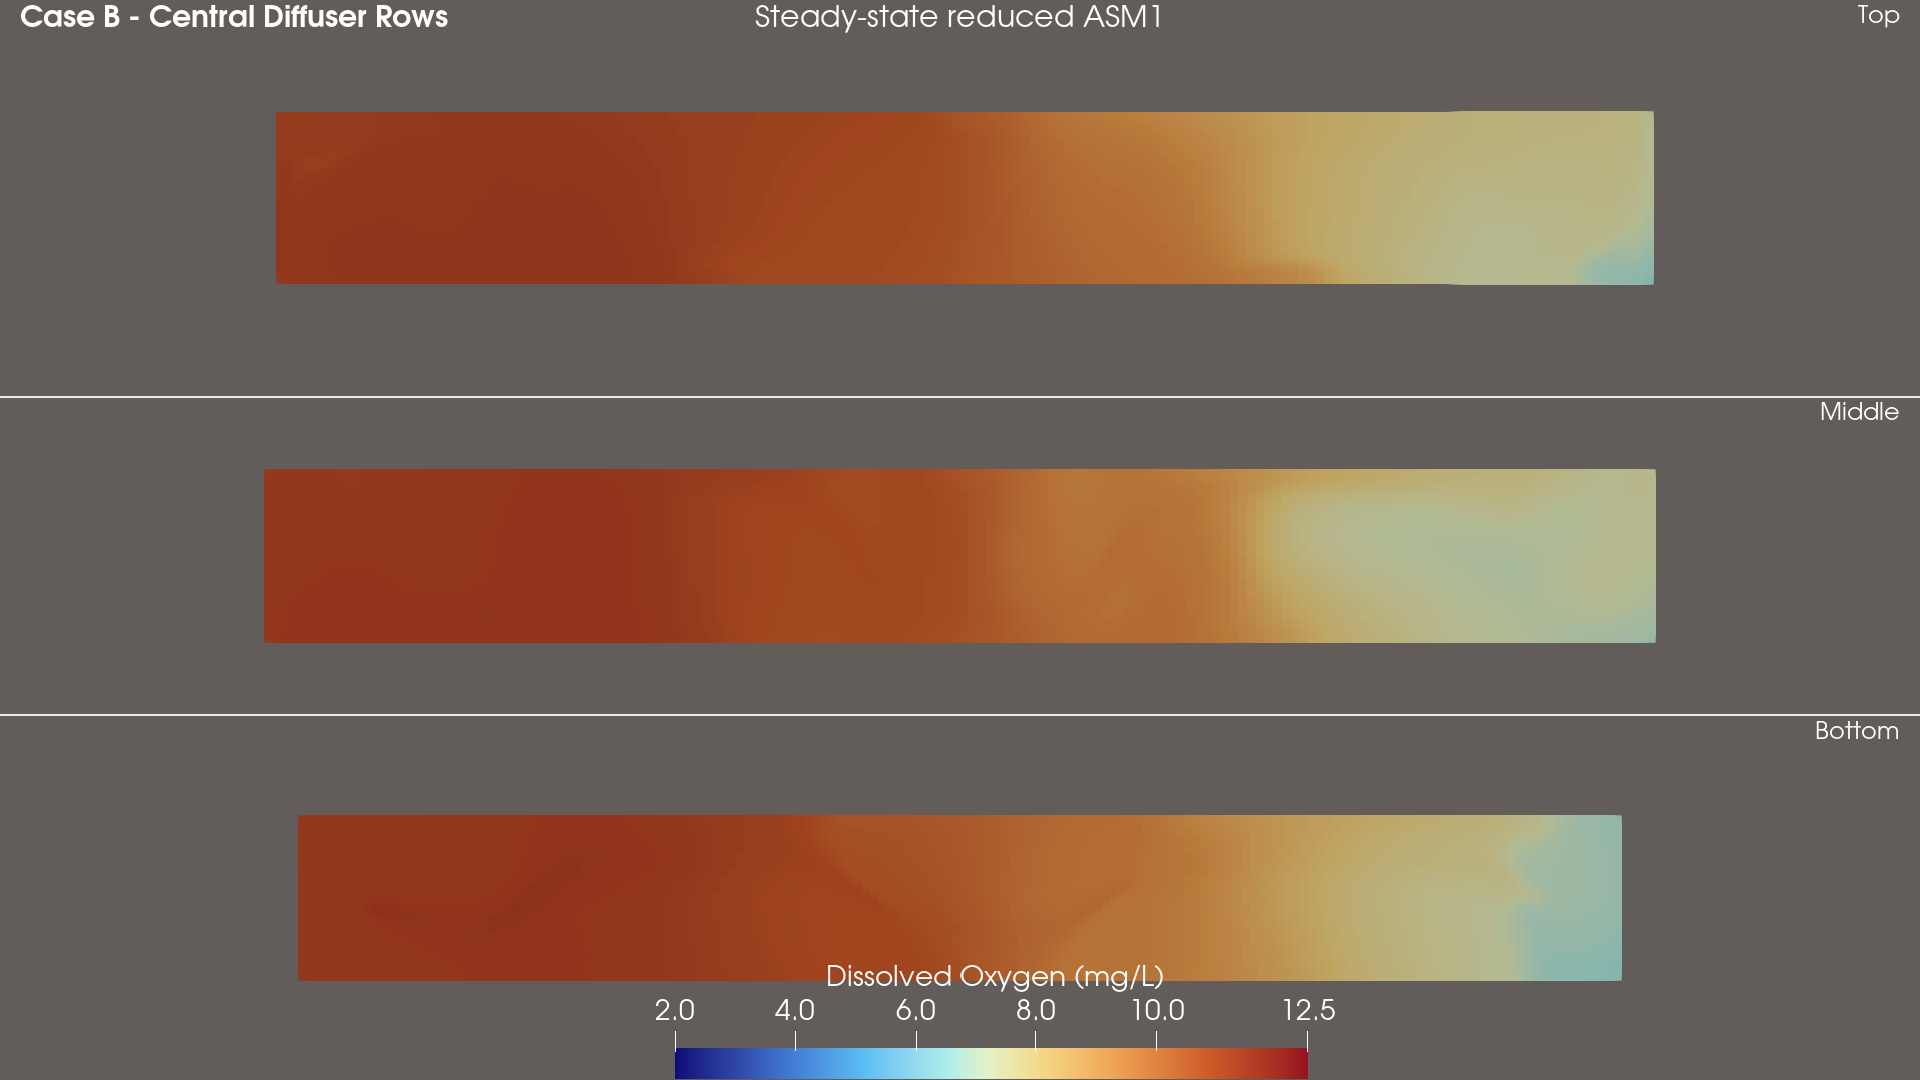
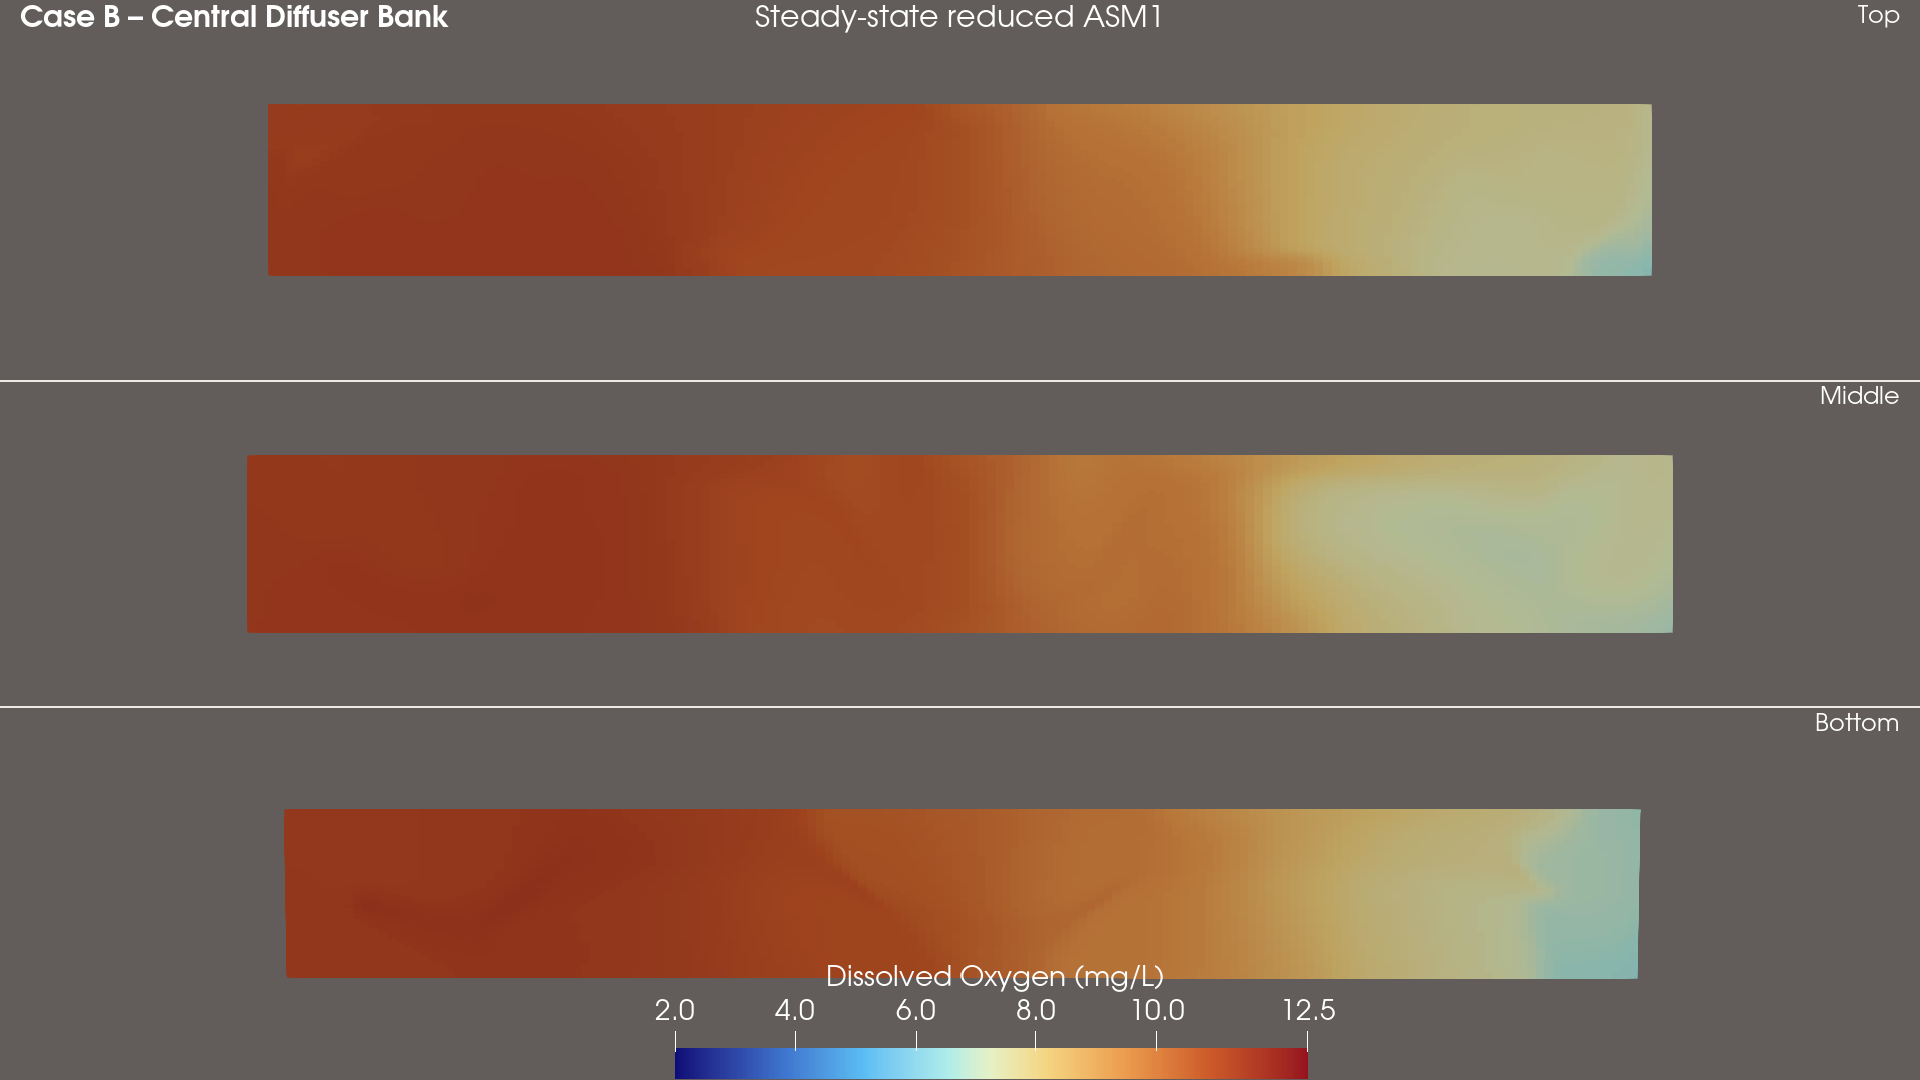
Updated README and added initial DO field images

diff --git a/README.md b/README.md
@@ -14,9 +14,9 @@ The project compares three diffuser arrangements using the same tank geometry, o
 
 Three diffuser layouts were studied:
 
-- **Case A – Distributed Diffuser Strips**
-- **Case B – Central Diffuser Strip**
-- **Case C – Lateral Diffuser Strips**
+- **Case A – Distributed Diffuser Rows**
+- **Case B – Central Diffuser Bank**
+- **Case C – Lateral Diffuser Banks**
 
 The aim was to compare how diffuser placement changes gas distribution, circulation, oxygen-transfer behaviour, DO uniformity, and biodegradable substrate removal.
 
@@ -81,7 +81,7 @@ The main averaged and derived fields used in the biological stage include:
 - `DOsatLocalMean`
 - `oxygenTransferCoeffPostMean`
 
-These fields provide the hydrodynamic and oxygen-transfer input for the reduced biological model.
+These time-averaged and derived fields are passed forward as frozen hydrodynamic and oxygen-transfer inputs for the reduced biological model. They are not all direct solver outputs.
 
 #### Aeration plume development
 A short transient animation was produced to show how the air phase develops after aeration starts and how plume formation differs between the three diffuser layouts.
@@ -94,7 +94,7 @@ A short transient animation was produced to show how the air phase develops afte
 
 A second custom OpenFOAM solver, `aerationASM1ReducedFoam`, was developed for the biological stage.
 
-The biological model uses the established time-averaged hydrodynamic and oxygen-transfer fields from the aeration simulation instead of rerunning the full multiphase CFD.
+The biological model uses the established frozen, time-averaged hydrodynamic and oxygen-transfer fields from the aeration simulation instead of rerunning the full multiphase CFD.
 
 The model is based on the aerobic carbon-removal part of ASM1.
 
@@ -122,6 +122,8 @@ The model includes:
 The heterotrophic biomass concentration is prescribed because the CFD domain does not contain a secondary clarifier, return activated sludge loop, or waste activated sludge system.
 
 The model therefore represents aerobic carbon removal inside the aeration tank rather than a complete activated-sludge plant.
+
+The earlier simplified BioCOD calculations are superseded development results and are not mixed with the final reduced ASM1 results reported below.
 
 ---
 
@@ -201,6 +203,8 @@ Field:
 alpha.airMean
 ```
 
+`alpha.airMean` is the time-averaged air-volume-fraction field from the aeration stage, averaged over **180–300 s**. It is not an instantaneous field and is not a reduced ASM1 result.
+
 A representative horizontal slice was taken at:
 
 ```text
@@ -224,6 +228,8 @@ Field:
 mag(U.waterMean)
 ```
 
+These figures are based on the time-averaged `U.waterMean` field produced during the aeration stage.
+
 Maximum mean water velocity:
 
 | Case | Maximum velocity |
@@ -242,11 +248,11 @@ The results show that maximum velocity alone is not enough to judge mixing quali
 
 ![Case A mean water velocity](figures/hydrodynamics/mean_water_velocity_caseA.png)
 
-### Case B – Central Diffuser Rows
+### Case B – Central Diffuser Bank
 
 ![Case B mean water velocity](figures/hydrodynamics/mean_water_velocity_caseB.png)
 
-### Case C – Lateral Diffuser Rows
+### Case C – Lateral Diffuser Banks
 
 ![Case C mean water velocity](figures/hydrodynamics/mean_water_velocity_caseC.png)
 
@@ -276,11 +282,11 @@ Case A distributes oxygen-transfer capacity through a larger part of the tank.
 
 ![Case A oxygen transfer coefficient](figures/oxygen_transfer/oxygen_transfer_coefficient_caseA.png)
 
-### Case B – Central Diffuser Rows
+### Case B – Central Diffuser Bank
 
 ![Case B oxygen transfer coefficient](figures/oxygen_transfer/oxygen_transfer_coefficient_caseB.png)
 
-### Case C – Lateral Diffuser Rows
+### Case C – Lateral Diffuser Banks
 
 ![Case C oxygen transfer coefficient](figures/oxygen_transfer/oxygen_transfer_coefficient_caseC.png)
 
@@ -302,23 +308,43 @@ Integrated net oxygen-transfer rates:
 | Case B – Central | **0.002383 kg/s** |
 | Case C – Lateral | **0.002384 kg/s** |
 
-The total transfer rates are similar, but the spatial distribution is different between the layouts.
+The integrated net oxygen-transfer rates are very similar. Diffuser layout therefore changes the spatial distribution of oxygen transfer and dissolved oxygen much more strongly than the overall net transfer magnitude.
 
 ### Case A – Distributed Diffuser Rows
 
 ![Case A oxygen transfer rate](figures/oxygen_transfer/oxygen_transfer_rate_caseA.png)
 
-### Case B – Central Diffuser Rows
+### Case B – Central Diffuser Bank
 
 ![Case B oxygen transfer rate](figures/oxygen_transfer/oxygen_transfer_rate_caseB.png)
 
-### Case C – Lateral Diffuser Rows
+### Case C – Lateral Diffuser Banks
 
 ![Case C oxygen transfer rate](figures/oxygen_transfer/oxygen_transfer_rate_caseC.png)
 
 ---
 
 ## Dissolved oxygen
+
+The biological calculation follows this sequence:
+
+**time-averaged aeration DO → reduced ASM1 transport/reaction → steady-state DO**
+
+The `DOMean` field from `aerationDOFoam` is supplied as the initial dissolved-oxygen field for `aerationASM1ReducedFoam`.
+
+### Initial mean DO field from aeration CFD — Case A – Distributed Diffuser Rows
+
+![Case A initial mean DO field from aeration CFD](figures/biological_response/initial_mean_DO_caseA.png)
+
+### Initial mean DO field from aeration CFD — Case B – Central Diffuser Bank
+
+![Case B initial mean DO field from aeration CFD](figures/biological_response/initial_mean_DO_caseB.png)
+
+### Initial mean DO field from aeration CFD — Case C – Lateral Diffuser Banks
+
+![Case C initial mean DO field from aeration CFD](figures/biological_response/initial_mean_DO_caseC.png)
+
+### Steady-state reduced ASM1 dissolved oxygen
 
 Field:
 
@@ -354,7 +380,7 @@ Case C produces the largest spatial variation.
 | Case B – Central | **0%** |
 | Case C – Lateral | **0.77%** |
 
-The low-DO region in Case C is localised rather than tank-wide.
+The low-DO region in Case C is localised rather than tank-wide. It mainly follows an axial inlet-to-downstream gradient and is not evidence that the lateral diffuser banks fail to oxygenate the sides. A field check found a minimum of **0.5 mg/L** near `x = 0` and a maximum of approximately **11.83 mg/L** near `x = 37.1 m`, `y = 4.47 m`, close to a lateral region. This is internally consistent with the lateral-bank configuration.
 
 ### Flow-weighted outlet DO
 
@@ -364,15 +390,15 @@ The low-DO region in Case C is localised rather than tank-wide.
 | Case B – Central | **11.36 mg/L** |
 | Case C – Lateral | **11.66 mg/L** |
 
-### Case A – Distributed Diffuser Rows
+### Steady-state reduced ASM1 DO field — Case A – Distributed Diffuser Rows
 
 ![Case A dissolved oxygen](figures/biological_response/dissolved_oxygen_caseA.png)
 
-### Case B – Central Diffuser Rows
+### Steady-state reduced ASM1 DO field — Case B – Central Diffuser Bank
 
 ![Case B dissolved oxygen](figures/biological_response/dissolved_oxygen_caseB.png)
 
-### Case C – Lateral Diffuser Rows
+### Steady-state reduced ASM1 DO field — Case C – Lateral Diffuser Banks
 
 ![Case C dissolved oxygen](figures/biological_response/dissolved_oxygen_caseC.png)
 
@@ -430,7 +456,9 @@ Case C produces the greatest spatial variation.
 | Case B – Central | **97.43%** |
 | Case C – Lateral | **98.33%** |
 
-Case C gives the lowest outlet biodegradable substrate concentration.
+The final reduced ASM1 biodegradable-substrate reductions are all very similar. The small differences do not indicate a major change in overall biological removal efficiency between diffuser layouts.
+
+Case C gives the lowest outlet biodegradable substrate concentration, but only by a small margin.
 
 Case A remains close to Case C while maintaining a more uniform dissolved oxygen field.
 
@@ -438,11 +466,11 @@ Case A remains close to Case C while maintaining a more uniform dissolved oxygen
 
 ![Case A biodegradable substrate COD](figures/biological_response/substrate_cod_caseA.png)
 
-### Case B – Central Diffuser Rows
+### Case B – Central Diffuser Bank
 
 ![Case B biodegradable substrate COD](figures/biological_response/substrate_cod_caseB.png)
 
-### Case C – Lateral Diffuser Rows
+### Case C – Lateral Diffuser Banks
 
 ![Case C biodegradable substrate COD](figures/biological_response/substrate_cod_caseC.png)
 
@@ -459,12 +487,12 @@ It produces:
 - the highest mean dissolved oxygen
 - the most uniform dissolved oxygen field
 - no liquid volume below 4 mg/L DO
-- the highest integrated oxygen-transfer rate
+- the highest integrated net oxygen-transfer rate
 - broad gas distribution
 - distributed water circulation
 - strong biodegradable substrate removal
 
-### Case B – Central Diffuser Rows
+### Case B – Central Diffuser Bank
 
 Case B produces a more concentrated circulation and gas-distribution pattern.
 
@@ -476,7 +504,7 @@ It gives:
 - lower mean DO than Case A
 - the highest outlet biodegradable substrate concentration
 
-### Case C – Lateral Diffuser Rows
+### Case C – Lateral Diffuser Banks
 
 Case C produces strong circulation close to the lateral diffuser regions.
 
@@ -484,11 +512,11 @@ It gives:
 
 - the highest local mean water velocity
 - the lowest outlet biodegradable substrate COD
-- the highest calculated biodegradable substrate removal
+- the highest calculated biodegradable substrate removal, by a small margin
 - the lowest mean dissolved oxygen
 - the greatest DO variation
 - the greatest substrate variation
-- a small localised region below 4 mg/L DO
+- a small region below 4 mg/L DO associated mainly with the axial inlet-to-downstream gradient
 
 ---
 
@@ -509,6 +537,8 @@ Case A provides the most balanced overall performance because the distributed di
 Case B performs well in bulk substrate uniformity but concentrates the main aeration and circulation path.
 
 Case C gives the best outlet substrate result but produces the largest spatial variation inside the tank.
+
+Overall, the diffuser layout has a stronger effect on internal DO uniformity, substrate distribution, and local treatment conditions than on bulk biodegradable-substrate reduction, which remains similar across all three cases.
 
 ---
 
